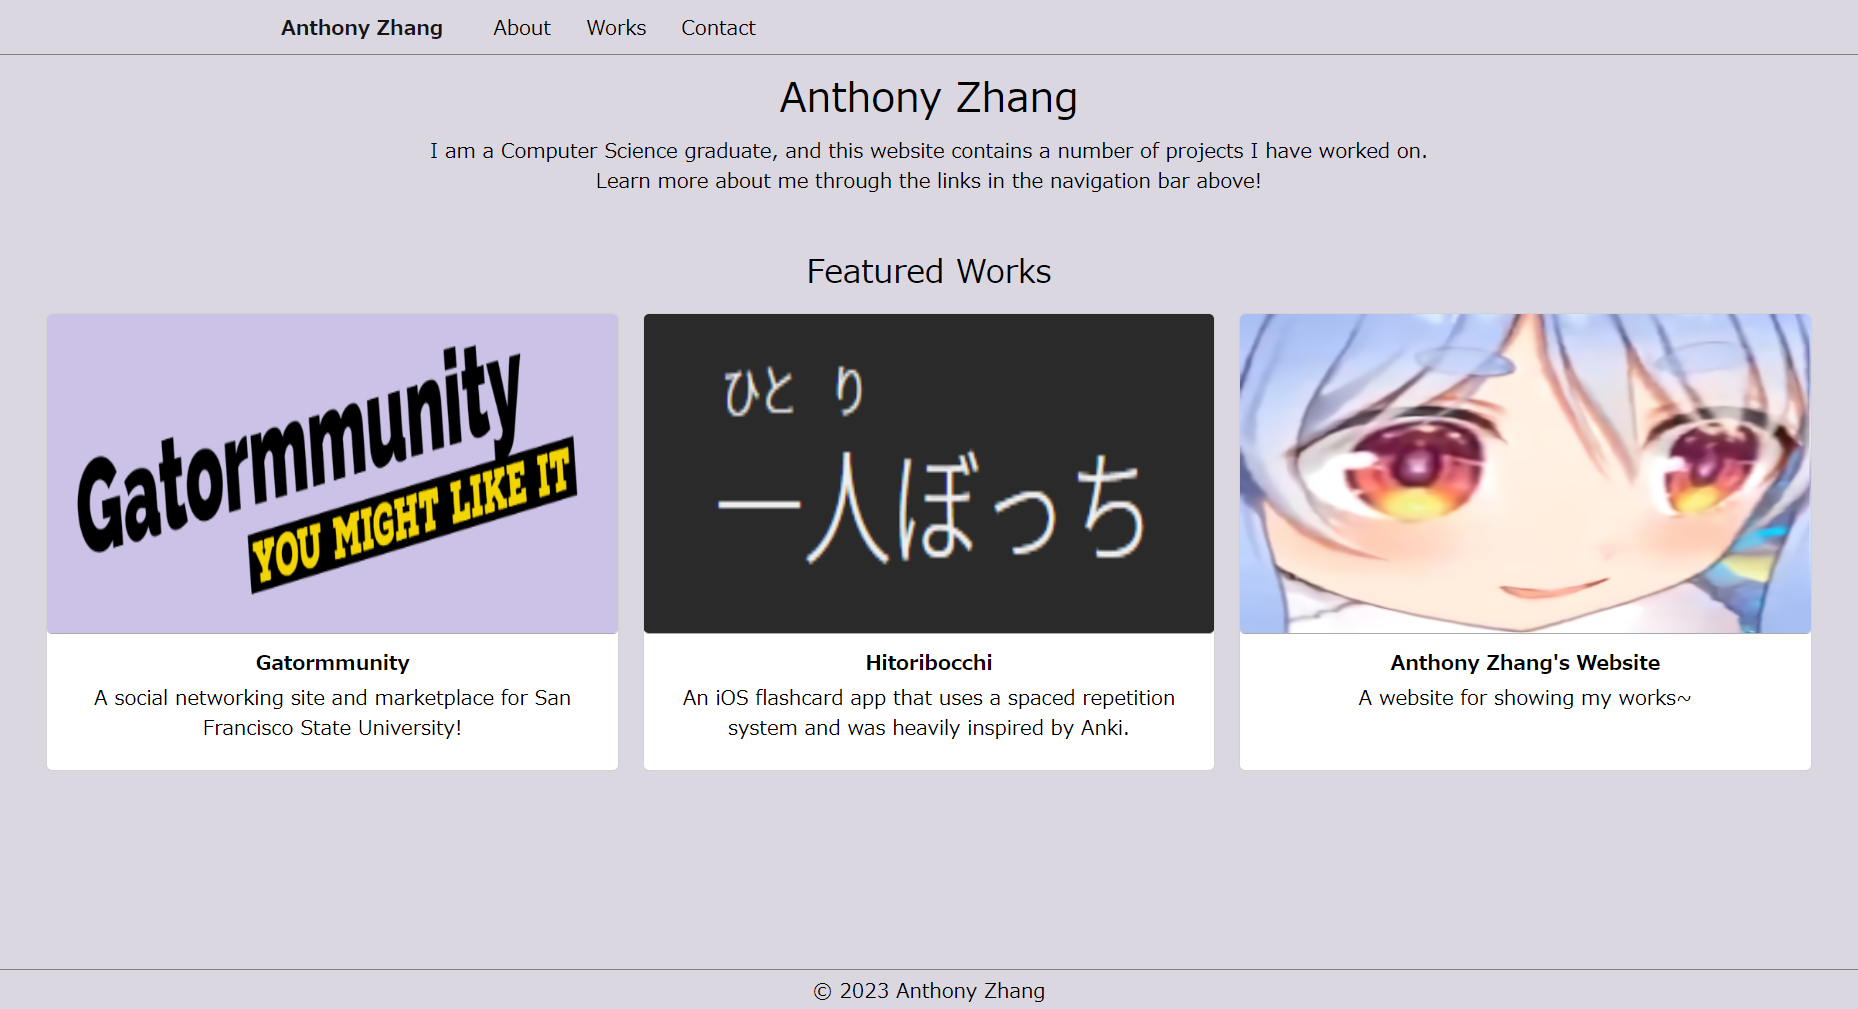
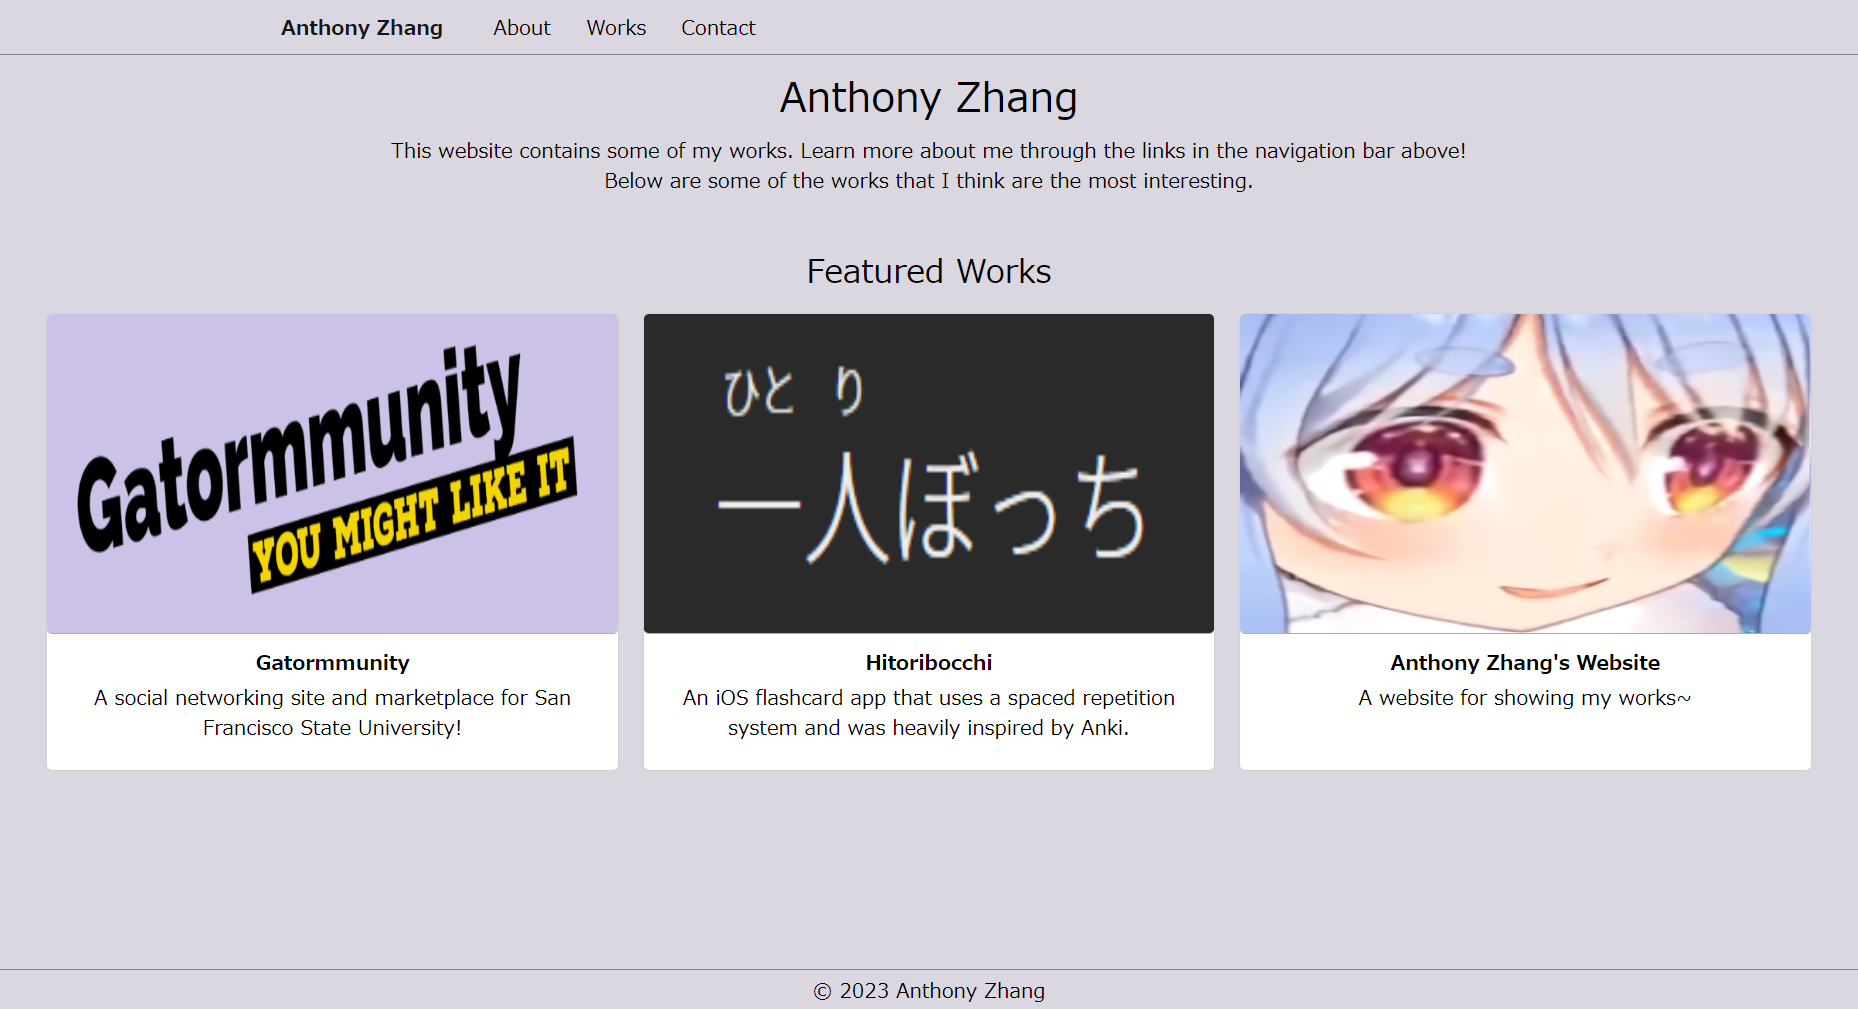
Reorganized the About page's technologies and added TypeScript to my languages. Reworded the Home page's introduction.

Changed region(s): [[0.2185, 0.1229, 0.7804, 0.1843]]

diff --git a/src/pages/About.js b/src/pages/About.js
@@ -10,25 +10,23 @@ export default function About() {
         <b>San Francisco State University, California, USA</b> <br />
         <b>Graduated December 2022</b> <br />
         Bachelor of Science, Computer Science <br />
-        Honors: <i>summa cum laude</i> (GPA: 4.00)
+        Honors: <i>summa cum laude</i> (GPA: 4.00 / 4.00)
       </p>
 
-      {/* Technologies Section */}
-      <h2 className='left-indent section-title'>Technologies</h2>
+      {/* Languages and Technologies Section */}
+      <h2 className='left-indent section-title'>Languages and Technologies</h2>
       <p className='left-indent section-body'>
-        <b>Web Development:</b> HTML, CSS, JavaScript, Node.js, React, Express.js, Handlebars.js, Figma <br />
-        <b>Programming Languages:</b> JavaScript, Java, Python, Swift, C++, C, R <br />
-        <b>Databases:</b> SQL (MySQL), MongoDB <br />
-        <b>Operating Systems:</b> Windows, macOS, Linux (Ubuntu) <br />
-        <b>Miscellaneous:</b> GitHub, Amazon EC2, NGINX
+        <b>Languages:</b> HTML, CSS, JavaScript, TypeScript, Java, Python, Swift, C, C++, R, MySQL, MongoDB <br />
+        <b>Technologies:</b> Node.js, React, Express.js, Amazon EC2, NGINX, Figma, Git <br />
+        <b>Operating Systems:</b> Windows, macOS, Linux, iOS
       </p>
 
-      {/* Skills/Coursework Section */}
-      <h2 className='left-indent section-title'>Skills/Coursework</h2>
+      {/* Coursework Section */}
+      <h2 className='left-indent section-title'>Coursework</h2>
       <p className='left-indent section-body'>
         Software Engineering, Software Development, Web Development, Database Systems, iOS Application Development, <br />
-        Operating Systems, Computer Networking, Theory of Computation, Data Structures and Algorithms, <br />
-        Linear Algebra, Probability and Statistics
+        Operating Systems, Computer Networking, Security and Data Privacy, Theory of Computation, <br />
+        Data Structures and Algorithms, Analysis of Algorithms, Linear Algebra, Probability and Statistics
       </p>
     </div>
   );

diff --git a/src/pages/works/AnthonyZhangWebsite.js b/src/pages/works/AnthonyZhangWebsite.js
@@ -63,7 +63,7 @@ export default function AnthonyZhangWebsite() {
       {/* About Page image */}
       <CaptionedImage
         altText='About Page'
-        caption="The about page gives a brief overview of my education and skills."
+        caption="The about page gives a brief overview of my education and technologies."
         imagePath='/images/works/anthony-zhang-website/about.png'
       />
 
@@ -81,7 +81,7 @@ export default function AnthonyZhangWebsite() {
         imagePath='/images/works/anthony-zhang-website/work.png'
       />
 
-      <p className='page-last-updated'>Page Last Updated: March 05, 2023</p>
+      <p className='page-last-updated'>Page Last Updated: March 14, 2023</p>
     </div>
   );
 }

diff --git a/src/pages/Home.js b/src/pages/Home.js
@@ -27,8 +27,8 @@ export default function Home() {
     <div className='home-p page-content'>
       <h1 className='page-title'>Anthony Zhang</h1>
       <p>
-        I am a Computer Science graduate, and this website contains a number of projects I have worked on. <br />
-        Learn more about me through the links in the navigation bar above!
+        This website contains some of my works. Learn more about me through the links in the navigation bar above! <br />
+        Below are some of the works that I think are the most interesting.
       </p>
 
       <h2 className='featured-works'>Featured Works</h2>
